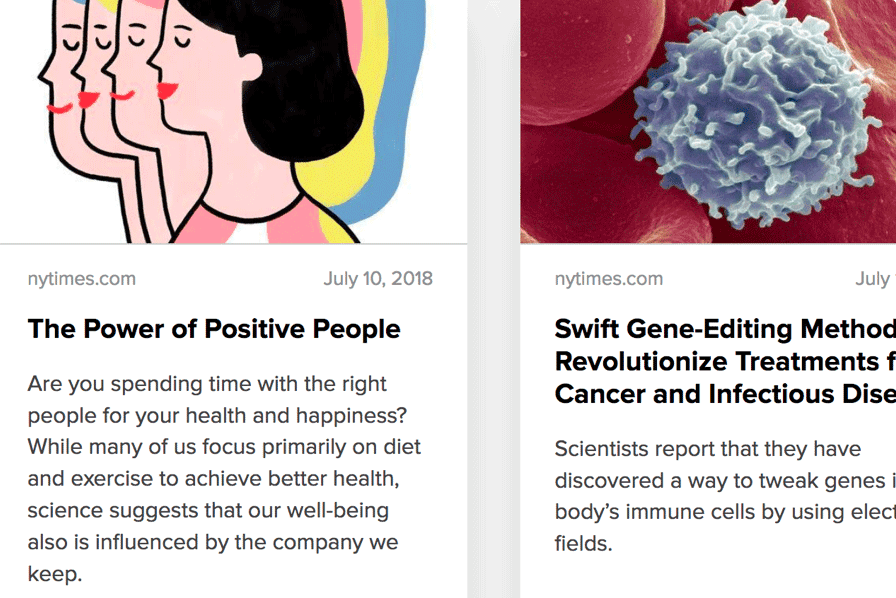
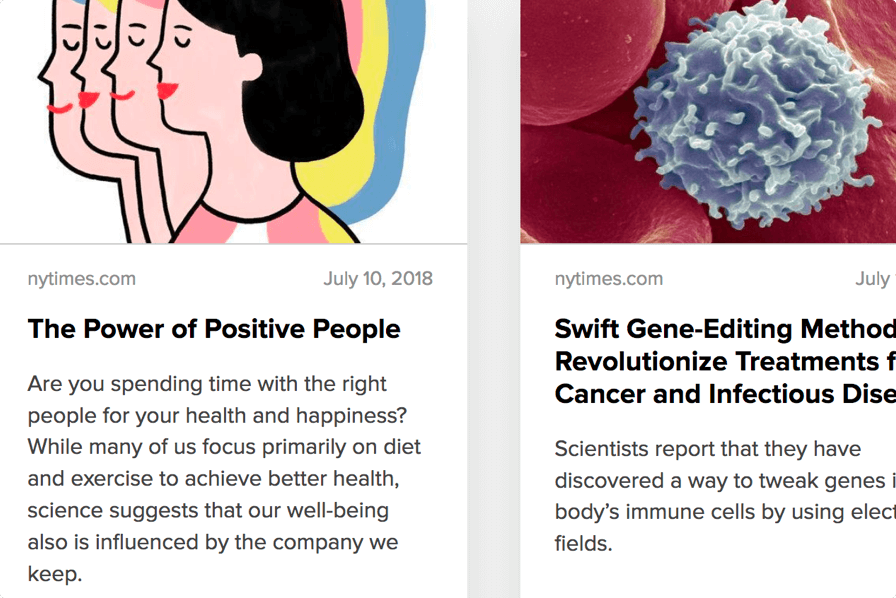
Review updates
* Increase whitespace
* Add high-res card images
* Lazy-load images

Changed region(s): [[0.7188, 0.1204, 0.75, 0.1505], [0.6875, 0.2107, 0.7188, 0.2408], [0.6875, 0.1505, 0.7188, 0.1806]]

diff --git a/bedrock/firefox/templates/firefox/pocket.html b/bedrock/firefox/templates/firefox/pocket.html
@@ -13,6 +13,8 @@
 
 {% block body_id %}pocket-landing{% endblock %}
 
+{% set lazy_image_placeholder = 'mozorg/developer/hub/placeholder.png' %}
+
 {% block content %}
 <main class="mzp-t-firefox">
   <section id="pocket-hero" class="mzp-c-hero mzp-has-image mzp-t-dark">
@@ -68,7 +70,8 @@
       <div class="mzp-c-card mzp-c-card-medium mzp-has-aspect-3-2">
         <a class="mzp-c-card-block-link" href="https://support.mozilla.org/kb/save-web-pages-later-pocket-firefox">
           <div class="mzp-c-card-media-wrapper">
-            <img src="{{ static('img/firefox/products/pocket/pocket-save.png') }}" alt="">
+            {{ lazy_img(image_url='firefox/products/pocket/pocket-save.png', include_highres_image=True, placeholder_url='placeholder.png') }}
+            <!-- <img src="{{ static('img/firefox/products/pocket/pocket-save.png') }}" alt=""> -->
           </div>
           <div class="mzp-c-card-content">
             <h3 class="mzp-c-card-title">{{ _('Save It Fast') }}</h3>
@@ -80,7 +83,8 @@
       <div class="mzp-c-card mzp-c-card-medium mzp-has-aspect-3-2">
         <a class="mzp-c-card-block-link" href="https://help.getpocket.com/article/1142-firefox-new-tab-recommendations">
           <div class="mzp-c-card-media-wrapper">
-            <img src="{{ static('img/firefox/products/pocket/pocket-discover.png') }}" alt="">
+            {{ lazy_img(image_url='firefox/products/pocket/pocket-discover.png', include_highres_image=True, placeholder_url='placeholder.png') }}
+            <!-- <img src="{{ static('img/firefox/products/pocket/pocket-discover.png') }}" alt=""> -->
           </div>
           <div class="mzp-c-card-content">
             <h3 class="mzp-c-card-title">{{ _('Get Great Recommendations') }}</h3>
@@ -108,11 +112,14 @@
     </div>
 
     <div class="mzp-c-hero-image">
-      <img src="{{ static('img/firefox/products/pocket/pocket-illo-mobile.png') }}" alt="">
+      {{ lazy_img(image_url='firefox/products/pocket/pocket-illo-mobile.png', include_highres_image=False, placeholder_url='placeholder.png') }}
+      <!-- <img src="{{ static('img/firefox/products/pocket/pocket-illo-mobile.png') }}" alt=""> -->
     </div>
   </section>
 
 </main>
 {% endblock %}
 
-{% block js %}{% endblock %}
+{% block js %}
+  {{ js_bundle('product_pocket') }}
+{% endblock %}

diff --git a/media/css/firefox/pocket.scss b/media/css/firefox/pocket.scss
@@ -90,13 +90,17 @@ $image-path: '/media/protocol/img';
     }
 
     .mzp-c-card-feature.mzp-l-card-feature-right-third {
-        margin-bottom: $layout-sm;
+        margin-bottom: $layout-lg;
     }
 }
 
 @media #{$mq-lg} {
     .mzp-c-hero-body {
         max-width: 480px;
+    }
+
+    .mzp-c-card-feature.mzp-l-card-feature-right-third {
+        margin-bottom: $layout-xl;
     }
 }
 
@@ -106,7 +110,7 @@ $image-path: '/media/protocol/img';
     margin-bottom: $layout-sm;
 
     @media #{$mq-md} {
-        margin-bottom: $layout-lg;
+        margin-bottom: $layout-xl;
 
         .mzp-c-hero-image {
             bottom: -$layout-xl;
@@ -116,7 +120,7 @@ $image-path: '/media/protocol/img';
     }
 
     @media #{$mq-lg} {
-        margin-bottom: $layout-xl;
+        margin-bottom: $layout-2xl;
     }
 }
 
@@ -131,7 +135,7 @@ $image-path: '/media/protocol/img';
     }
 
     @media #{$mq-md} {
-        margin-top: $layout-lg;
+        margin-top: $layout-xl;
 
         .mzp-c-hero-image {
             bottom: 0;

diff --git a/media/js/firefox/pocket.js b/media/js/firefox/pocket.js
@@ -1,0 +1,11 @@
+/* This Source Code Form is subject to the terms of the Mozilla Public
+ * License, v. 2.0. If a copy of the MPL was not distributed with this
+ * file, You can obtain one at http://mozilla.org/MPL/2.0/. */
+
+(function() {
+    'use strict';
+
+    // Lazyload images
+    Mozilla.LazyLoad.init();
+
+})();
